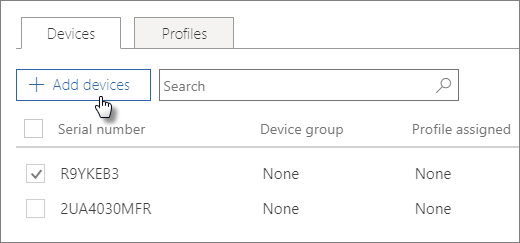
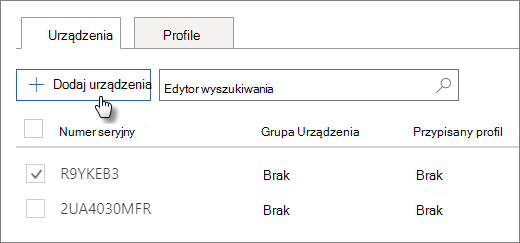
commit translated contents

diff --git a/microsoft-365/business/create-and-edit-autopilot-devices.md b/microsoft-365/business/create-and-edit-autopilot-devices.md
@@ -25,13 +25,13 @@ search.appverid:
 - MET150
 - MOE150
 ms.assetid: 0f7b1d7c-4086-4331-8534-45d7886f9f34
-description: Dowiedz się, jak przekazywać urządzenia za pomocą rozwiązania AutoPilot w uwitrynie Microsoft 365 Business Premium. Profil możesz przypisać do urządzenia lub grupy urządzeń.
-ms.openlocfilehash: 506ff44e3cb6656b19174e82688b5af141ea2b79
-ms.sourcegitcommit: 53acc851abf68e2272e75df0856c0e16b0c7e48d
+description: Dowiedz się, jak przekazywać urządzenia za pomocą rozwiązania AutoPilot w programie Microsoft 365 Business Premium. Profil możesz przypisać do urządzenia lub grupy urządzeń.
+ms.openlocfilehash: ae3a760db4b94aac50301685a0c4f468e46ec8e9aa907a1b6fb35e03a9e541f0
+ms.sourcegitcommit: a1b66e1e80c25d14d67a9b46c79ec7245d88e045
 ms.translationtype: MT
 ms.contentlocale: pl-PL
-ms.lasthandoff: 04/02/2021
-ms.locfileid: "51578492"
+ms.lasthandoff: 08/05/2021
+ms.locfileid: "53867034"
 ---
 # <a name="create-and-edit-autopilot-devices"></a>Tworzenie i edytowanie urządzeń rozwiązania AutoPilot
 
@@ -41,11 +41,11 @@ Aby przekazać [urządzenia,](add-autopilot-devices-and-profile.md) możesz skor
   
 Urządzenia muszą spełniać następujące wymagania:
   
-- Windows 10 w wersji 1703 lub nowszej
+- Windows 10, wersja 1703 lub nowsza
     
-- Nowe urządzenia, które nie są już w stanie obsługi klienta systemu Windows
+- Nowe urządzenia, które nie zostały Windows w nowym stanie obsługi
 
-1. W centrum administracyjnym platformy Microsoft 365 wybierz pozycję **Devices** \> **AutoPilot (Rozwiązania rozwiązania Devices AutoPilot).**
+1. W centrum administracyjne platformy Microsoft 365 wybierz **pozycję Devices** \> **AutoPilot (Rozwiązania rozwiązania Devices AutoPilot).**
   
 2. Na stronie **AutoPilot** wybierz kartę **Urządzenia** Dodaj \> **urządzenia.**
     
@@ -57,7 +57,7 @@ Urządzenia muszą spełniać następujące wymagania:
     
 ## <a name="assign-a-profile-to-a-device-or-a-group-of-devices"></a>Przypisywanie profilu do urządzenia lub grupy urządzeń
 
-1. Na stronie **Przygotowywanie systemu Windows** wybierz **kartę** Urządzenia, a następnie zaznacz pole wyboru obok jednego lub większej liczby urządzeń. 
+1. Na **stronie Przygotowywanie Windows** wybierz kartę Urządzenia, a następnie zaznacz pole wyboru obok jednego lub większej liczby urządzeń.  
     
 2. W panelu **Urządzenie** wybierz profil z listy rozwijanej **Przypisany profil**. 
     

diff --git a/microsoft-365/business/support/transition-csp-subscription.md b/microsoft-365/business/support/transition-csp-subscription.md
@@ -15,12 +15,12 @@ localization_priority: Normal
 audience: microsoft-business
 keywords: Microsoft 365 Business, Microsoft 365, SMB, transition CSP subscription
 ms.date: 11/01/2017
-ms.openlocfilehash: 47b65b2de9db0fd27e29272937bab2041eb67300
-ms.sourcegitcommit: 7dc3b4dec05299abb4290a6e3d1ebe0fdc622ed7
+ms.openlocfilehash: c35cb3b78c4fe2cebc8308b34ceef3decd346b3db298ce5fb56abc8cf205e69d
+ms.sourcegitcommit: a1b66e1e80c25d14d67a9b46c79ec7245d88e045
 ms.translationtype: MT
 ms.contentlocale: pl-PL
-ms.lasthandoff: 07/10/2021
-ms.locfileid: "53363824"
+ms.lasthandoff: 08/05/2021
+ms.locfileid: "53867168"
 ---
 # <a name="transition-a-microsoft-365-business-csp-subscription"></a>Przechodzenie subskrypcji usługi Microsoft 365 CSP dla firm
 
